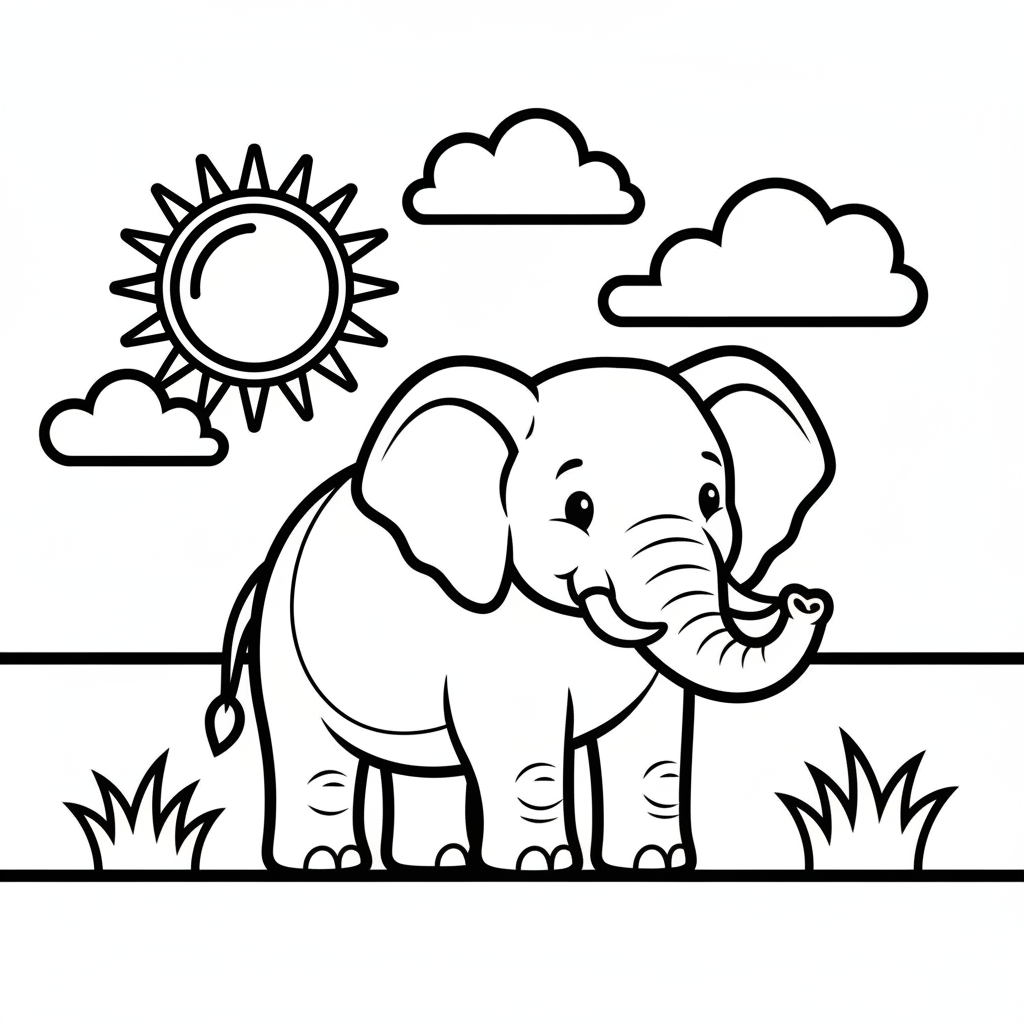
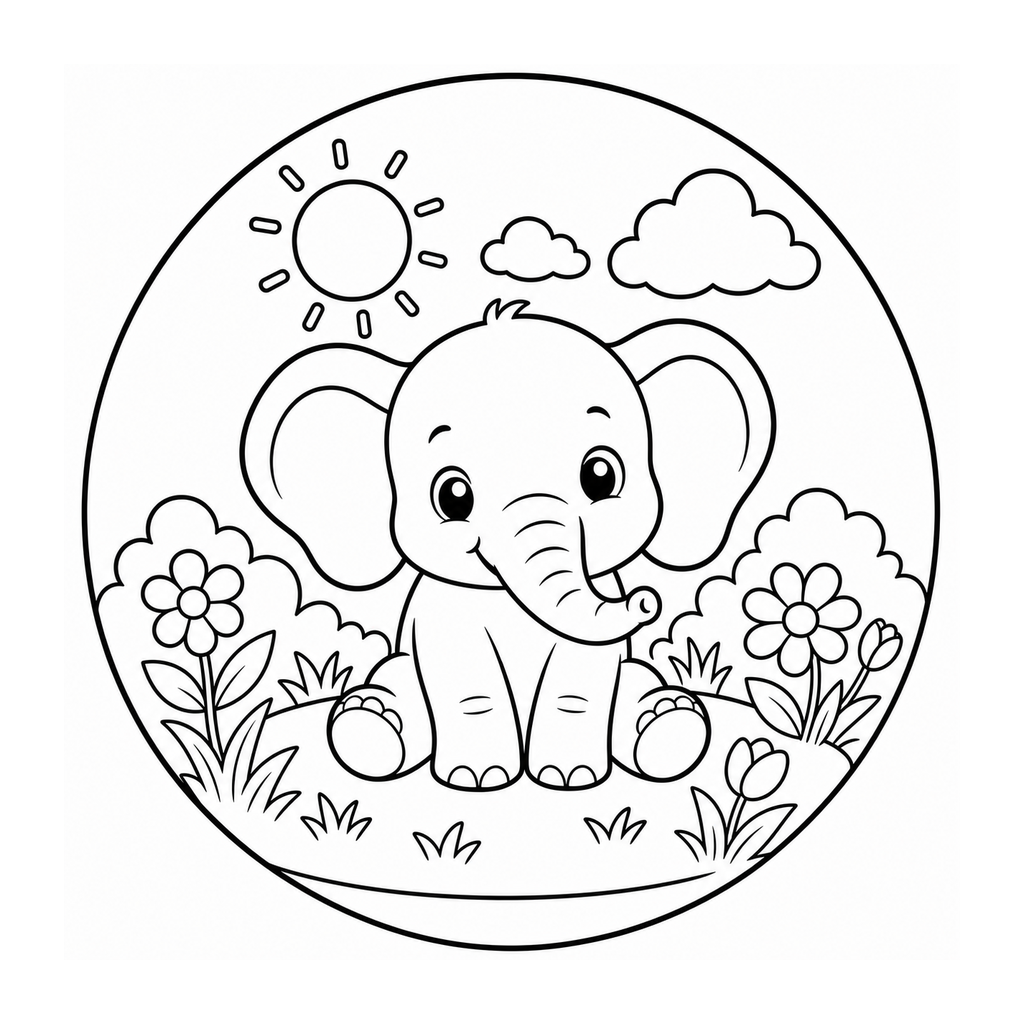
Replace elephant coloring page with closed artwork

Changed region(s): [[0.0, 0.0625, 1.0, 0.9375], [0.625, 0.0938, 0.6875, 0.125], [0.125, 0.5, 0.1562, 0.5312]]

diff --git a/js/data/artworks.js b/js/data/artworks.js
@@ -49,7 +49,7 @@ window.ARTWORKS = ARTWORK_CATALOG.map(function(entry) {
     id: id,
     title: title,
     category: category,
-    src: 'assets/images/artworks/' + file + '?v=1',
+    src: 'assets/images/artworks/' + file + '?v=2',
     isCanvas: true,
     guide: []
   };